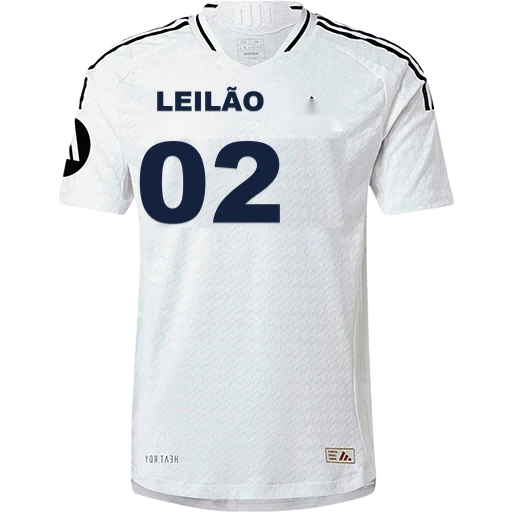
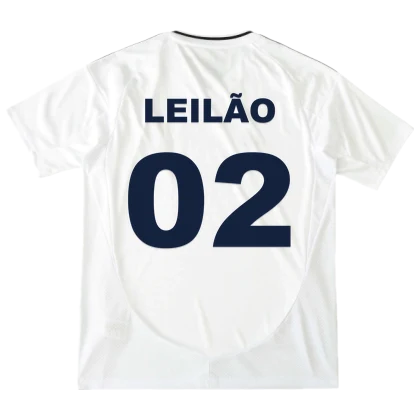
Costas das camisas com foto real (usoa10) em 17 clubes, nome do jogo e número

diff --git a/tools/usoa_cut.py b/tools/usoa_cut.py
@@ -1,0 +1,45 @@
+# Recorta as fotos de costas baixadas do usoa10 (fundo -> transparente) e centraliza em 420x420.
+# Uso: python3 tools/usoa_cut.py <pasta com as fotos> <pasta de saída>
+import cv2, numpy as np, sys, json, os
+SRC,OUT=sys.argv[1],sys.argv[2];os.makedirs(OUT,exist_ok=True)
+PICK={"flamengo":"flamengo/5","real-madrid":"real-madrid/7","palmeiras":"palmeiras/1","barcelona":"barcelona/1","corinthians":"corinthians/2","man-utd":"man-utd/5","sao-paulo":"sao-paulo/1","liverpool":"liverpool/1","santos":"santos/2","bayern":"bayern/1","juventus":"juventus/1","ac-milan":"ac-milan/1","psg":"psg/5","vasco":"vasco_1/1","chelsea":"chelsea/3","botafogo":"botafogo/5","arsenal":"arsenal/3","cruzeiro":"cruzeiro/1","dortmund":"dortmund/1"}
+WHITE={"ac-milan","real-madrid","santos","sao-paulo","corinthians","juventus","botafogo","flamengo"}
+def cut_white(im):
+    h,w=im.shape[:2];fl=im.copy();ff=np.zeros((h+2,w+2),np.uint8)
+    for sx,sy in [(1,1),(w-2,1),(1,h-2),(w-2,h-2)]:
+        cv2.floodFill(fl,ff,(sx,sy),(0,0,0),(5,5,5),(5,5,5),cv2.FLOODFILL_MASK_ONLY|cv2.FLOODFILL_FIXED_RANGE|(255<<8))
+    m=np.where(ff[1:-1,1:-1]>0,0,255).astype(np.uint8)
+    n,lab,st,_=cv2.connectedComponentsWithStats(m)
+    if n>1:m=np.where(lab==1+np.argmax(st[1:,4]),255,0).astype(np.uint8)
+    m=cv2.morphologyEx(m,cv2.MORPH_CLOSE,np.ones((7,7),np.uint8))
+    cnt,_=cv2.findContours(m,cv2.RETR_EXTERNAL,cv2.CHAIN_APPROX_SIMPLE);f=np.zeros_like(m);cv2.drawContours(f,cnt,-1,255,-1)
+    return cv2.GaussianBlur(cv2.erode(f,np.ones((3,3),np.uint8)),(0,0),1.1)
+def cut(im):
+    h,w=im.shape[:2];mask=np.full((h,w),cv2.GC_PR_BGD,np.uint8)
+    mask[int(h*.04):int(h*.96),int(w*.06):int(w*.94)]=cv2.GC_PR_FGD
+    mask[int(h*.3):int(h*.75),int(w*.3):int(w*.7)]=cv2.GC_FGD
+    # fundo branco ligado à borda
+    fl=im.copy();ff=np.zeros((h+2,w+2),np.uint8);bgm=np.zeros((h,w),np.uint8)
+    for sx,sy in [(2,2),(w-3,2),(2,h-3),(w-3,h-3),(w//2,2),(w//2,h-3),(2,h//2),(w-3,h//2)]:
+        if im[sy,sx].min()>235:
+            ff[:]=0;cv2.floodFill(fl,ff,(sx,sy),(0,0,0),(7,7,7),(7,7,7),cv2.FLOODFILL_MASK_ONLY|(255<<8));bgm|=ff[1:-1,1:-1]
+    mask[bgm>0]=cv2.GC_BGD
+    bg=np.zeros((1,65));fg=np.zeros((1,65))
+    cv2.grabCut(im,mask,None,bg,fg,6,cv2.GC_INIT_WITH_MASK)
+    m=np.where((mask==1)|(mask==3),255,0).astype(np.uint8)
+    n,lab,st,_=cv2.connectedComponentsWithStats(m);
+    if n>1:m=np.where(lab==1+np.argmax(st[1:,4]),255,0).astype(np.uint8)
+    m=cv2.morphologyEx(m,cv2.MORPH_CLOSE,np.ones((9,9),np.uint8));m=cv2.morphologyEx(m,cv2.MORPH_OPEN,np.ones((5,5),np.uint8))
+    cnt,_=cv2.findContours(m,cv2.RETR_EXTERNAL,cv2.CHAIN_APPROX_SIMPLE);f=np.zeros_like(m);cv2.drawContours(f,cnt,-1,255,-1)
+    f=cv2.erode(f,np.ones((3,3),np.uint8));return cv2.GaussianBlur(f,(0,0),1.1)
+for k,p in PICK.items():
+    im=cv2.imread(f"{SRC}/{p}.webp")
+    if im is None:print("sem",k);continue
+    a=cut_white(im) if k in WHITE else cut(im)
+    if k=="man-utd":
+        hsv=cv2.cvtColor(im,cv2.COLOR_BGR2HSV);keep=((hsv[...,1]>70)|(hsv[...,2]<80)).astype(np.uint8)*255;keep=cv2.morphologyEx(keep,cv2.MORPH_CLOSE,np.ones((9,9),np.uint8));a=cv2.bitwise_and(a,keep)
+    ys,xs=np.where(a>128);x0,x1,y0,y1=xs.min(),xs.max(),ys.min(),ys.max()
+    rgba=np.dstack([im,a])[y0:y1+1,x0:x1+1];h,w=rgba.shape[:2];s=408/max(h,w)
+    rgba=cv2.resize(rgba,(max(1,int(w*s)),max(1,int(h*s))),interpolation=cv2.INTER_AREA)
+    c=np.zeros((420,420,4),np.uint8);oy=(420-rgba.shape[0])//2;ox=(420-rgba.shape[1])//2;c[oy:oy+rgba.shape[0],ox:ox+rgba.shape[1]]=rgba
+    cv2.imwrite(f"{OUT}/{k}.png",c);print(k)

diff --git a/tools/kits_back2.py b/tools/kits_back2.py
@@ -1,0 +1,31 @@
+# Costas com foto real (usoa10, recortadas por usoa_cut.py): apaga o texto do pescoço e escreve nome do jogo e número.
+# Uso: python3 tools/kits_back2.py <pasta dos recortes>   (rode antes tools/kits_back.py: ele gera as costas de reserva)
+import re, sys, cv2, numpy as np
+from PIL import Image, ImageDraw, ImageFont
+exec(open("tools/kits_back.py").read().split("def erase")[0].split("# clube:")[0])   # F, BLACK, NARROW, C
+src=open("tools/kits_back.py").read();K=eval(src[src.index("K={")+2:src.index("\ndef erase")].replace("\n","")[:-0] if False else "{"+src[src.index("K={")+3:src.index("}\ndef erase")]+"}")
+CUT=sys.argv[1]
+ERASE={"bayern":[((125,84,300,118),"i")],"dortmund":[((138,56,276,96),"i")],"palmeiras":[((138,64,266,102),"i")],"sao-paulo":[((128,44,284,82),"i")],"barcelona":[((160,306,306,340),C(0,-45))]}
+def erase(a,box,mode):
+    x0,y0,x1,y1=box
+    if mode=="i":
+        m=np.zeros(a.shape[:2],np.uint8);m[y0:y1,x0:x1]=255;b=a.copy();b[:,:,:3]=cv2.inpaint(np.ascontiguousarray(a[:,:,:3]),m,5,cv2.INPAINT_TELEA);return b
+    _,dx,dy=mode;b=a.copy();b[y0:y1,x0:x1]=a[y0+dy:y1+dy,x0+dx:x1+dx];return b
+def put(ov,txt,cx,cy,maxw,maxh,font,col,stroke,S):
+    for sz in range(220,6,-1):
+        f=ImageFont.truetype(font,sz*S);w=f.getlength(txt)
+        if w<=maxw*S and sz*0.74<=maxh:break
+    ImageDraw.Draw(ov).text((cx*S-w/2,cy*S),txt,font=f,fill=col,stroke_width=int(sz*S*0.06) if stroke else 0,stroke_fill=stroke or col,anchor="lm")
+import os
+for club,(num,name,items,col,stroke) in K.items():
+    f=f"{CUT}/{club}.png"
+    if not os.path.exists(f):continue
+    a=cv2.cvtColor(cv2.imread(f,cv2.IMREAD_UNCHANGED),cv2.COLOR_BGRA2RGBA)
+    for box,mode in ERASE.get(club,[]):a=erase(a,box,mode)
+    ys,xs=np.where(a[...,3]>128);y0,y1,x0,x1=ys.min(),ys.max(),xs.min(),xs.max();h,w=y1-y0,x1-x0;cx=(x0+x1)/2
+    im=Image.fromarray(a);S=4;ov=Image.new("RGBA",(420*S,420*S),(0,0,0,0));nm=name.replace("?","")
+    mw=w*0.46
+    put(ov,nm,cx,y0+h*0.22,mw,h*0.07,NARROW if len(nm)>8 else BLACK,col,stroke,S)
+    put(ov,f"{num:02d}",cx,y0+h*0.46,mw,h*0.27,BLACK,col,stroke,S)
+    ov=ov.resize(im.size,Image.LANCZOS);sh=Image.new("RGBA",im.size,(0,0,0,0));sh.paste((0,0,0,50),(0,1),ov.split()[3])
+    Image.alpha_composite(Image.alpha_composite(im,sh),ov).save(f"src/assets/kitback-{club}.webp","WEBP",quality=88,method=4);print(club)
